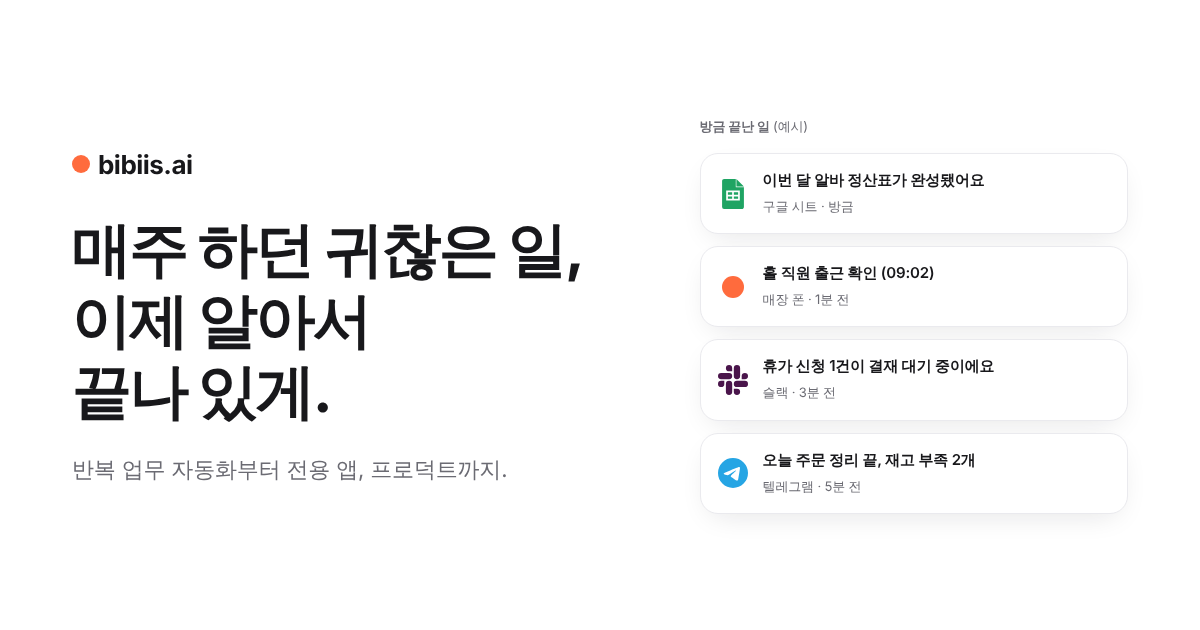
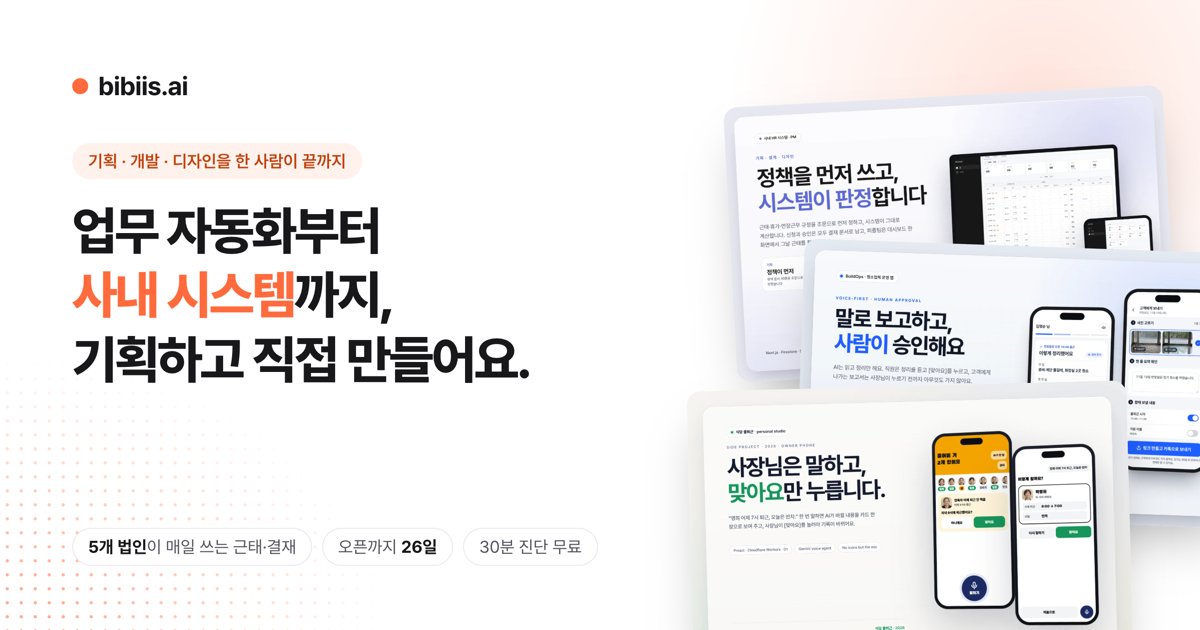
공유 이미지(og.png)와 공유 제목·설명을 새 방향으로 (#21)

diff --git a/design/og.html b/design/og.html
@@ -2,60 +2,38 @@
 <html lang="ko"><head><meta charset="utf-8">
 <link rel="stylesheet" href="https://cdn.jsdelivr.net/gh/orioncactus/pretendard@v1.3.9/dist/web/variable/pretendardvariable-dynamic-subset.css">
 <style>
-@font-face { font-family: "Mono"; font-weight: 700; src: url("https://cdn.jsdelivr.net/npm/@fontsource/jetbrains-mono@5.1.1/files/jetbrains-mono-latin-700-normal.woff2") format("woff2"); }
-@font-face { font-family: "Mono"; font-weight: 500; src: url("https://cdn.jsdelivr.net/npm/@fontsource/jetbrains-mono@5.1.1/files/jetbrains-mono-latin-500-normal.woff2") format("woff2"); }
-* { box-sizing: border-box; margin: 0; }
-html, body { width: 1200px; height: 630px; overflow: hidden; }
-body { position: relative; background: #191A21; color: #F8F8F2; font-family: "Pretendard Variable", Pretendard, sans-serif; letter-spacing: -0.02em; }
-.grid { position: absolute; inset: 0; background-image: linear-gradient(rgba(154,165,214,.09) 1px, transparent 1px), linear-gradient(90deg, rgba(154,165,214,.09) 1px, transparent 1px); background-size: 48px 48px; -webkit-mask-image: radial-gradient(ellipse 80% 80% at 40% 40%, #000 30%, transparent 80%); }
-.orb { position: absolute; border-radius: 50%; filter: blur(90px); }
-.a { width: 560px; height: 560px; right: -140px; top: -200px; background: #BD93F9; opacity: .45; }
-.b { width: 420px; height: 420px; left: -160px; bottom: -220px; background: #FF79C6; opacity: .3; }
-.copy { position: absolute; left: 72px; top: 64px; width: 640px; display: flex; flex-direction: column; gap: 28px; }
-.logo { font: 700 30px "Mono", monospace; letter-spacing: 0; }
-.logo .p { color: #FF79C6; } .logo .k { color: #BD93F9; } .logo .w { color: #F1FA8C; }
-.logo .c { display: inline-block; width: 3px; height: 30px; background: #FF79C6; vertical-align: -4px; margin-left: 4px; }
-h1 { font-size: 66px; line-height: 1.22; font-weight: 800; letter-spacing: -0.035em; margin-top: 22px; }
-h1 em { font-style: normal; background: linear-gradient(90deg, #BD93F9, #FF79C6); -webkit-background-clip: text; color: transparent; }
-.sub { font-size: 25px; color: #C9CFEA; font-weight: 500; line-height: 1.5; }
-.chips { position: absolute; left: 72px; bottom: 60px; display: flex; gap: 12px; }
-.chip { padding: 12px 20px; border-radius: 999px; background: rgba(68,71,90,.8); font-size: 21px; font-weight: 700; }
-.chip.on { background: #BD93F9; color: #191A21; }
-.browser { position: absolute; right: 56px; top: 120px; width: 400px; border-radius: 18px; overflow: hidden; background: #FFF8F0; box-shadow: 0 40px 80px -30px rgba(0,0,0,.7), 0 0 0 1px rgba(189,147,249,.35); transform: perspective(1400px) rotateY(-10deg) rotateX(4deg); }
-.bar { display: flex; align-items: center; gap: 8px; padding: 12px 14px; background: #44475A; font: 500 13px "Mono", monospace; color: #C9CFEA; letter-spacing: 0; }
-.bar i { width: 10px; height: 10px; border-radius: 50%; } .bar i:nth-child(1) { background: #FF5555; } .bar i:nth-child(2) { background: #F1FA8C; } .bar i:nth-child(3) { background: #50FA7B; }
-.page { padding: 18px 20px 22px; color: #3B2A20; display: flex; flex-direction: column; gap: 10px; }
-.nav { display: flex; justify-content: space-between; align-items: center; font-weight: 800; font-size: 15px; }
-.nav span { padding: 5px 11px; border-radius: 14px; background: #3B2A20; color: #FFF8F0; font-size: 12px; }
-.badge { align-self: flex-start; padding: 4px 10px; border-radius: 999px; background: #FDE7D3; color: #EA6A0C; font-size: 12px; font-weight: 700; margin-top: 8px; }
-.t { font-size: 27px; font-weight: 800; line-height: 1.25; letter-spacing: -0.03em; }
-.s { font-size: 13px; color: #7a6a5e; }
-.cta { align-self: flex-start; padding: 10px 16px; border-radius: 22px; background: #EA6A0C; color: #fff; font-size: 13px; font-weight: 800; }
-.rows { display: flex; flex-direction: column; gap: 7px; padding: 12px; border-radius: 22px; background: linear-gradient(140deg, #FCE1C8, #FDE9DA); margin-top: 6px; }
-.row { display: flex; align-items: center; gap: 9px; padding: 8px 10px; border-radius: 16px; background: #fff; font-size: 12.5px; font-weight: 700; }
-.row i { width: 22px; height: 22px; border-radius: 50%; background: linear-gradient(135deg, #EA6A0C, #FDBA74); }
-.row em { margin-left: auto; font-style: normal; color: #EA6A0C; font-size: 11px; }
-.typed { position: absolute; right: 70px; top: 76px; padding: 10px 16px; border-radius: 12px; border: 2px solid #BD93F9; background: #282A36; font-size: 17px; font-weight: 600; box-shadow: 0 20px 40px -20px #BD93F9; }
-.typed b { display: inline-block; width: 2px; height: 18px; background: #FF79C6; vertical-align: -3px; margin-left: 3px; }
+/* og.png 원본 (1200×630). 렌더: 이 파일을 1200×630으로 캡처 */
+*{box-sizing:border-box;margin:0}
+html,body{width:1200px;height:630px;overflow:hidden}
+body{position:relative;background:#FFFFFF;color:#18181B;font-family:"Pretendard Variable",Pretendard,sans-serif;-webkit-font-smoothing:antialiased}
+.glow{position:absolute;width:720px;height:720px;border-radius:50%;background:radial-gradient(circle,rgba(255,107,61,.18),transparent 62%);right:-200px;top:-260px}
+.dots{position:absolute;left:0;bottom:0;width:420px;height:300px;background-image:radial-gradient(#FF6B3D 1.6px,transparent 1.8px);background-size:14px 14px;-webkit-mask-image:radial-gradient(ellipse at 0% 100%,#000 10%,transparent 65%);opacity:.55}
+.copy{position:absolute;left:72px;top:70px;width:600px}
+.logo{display:flex;align-items:center;gap:10px;font-size:26px;font-weight:700;letter-spacing:-.02em}
+.logo i{width:16px;height:16px;border-radius:50%;background:#FF6B3D}
+.badge{display:inline-block;margin-top:42px;font-size:17px;font-weight:600;color:#C2410C;background:#FFF1EC;padding:8px 16px;border-radius:999px}
+h1{margin-top:20px;font-size:52px;line-height:1.24;letter-spacing:-.045em;font-weight:800;word-break:keep-all}
+h1 em{font-style:normal;color:#FF6B3D}
+.proof{position:absolute;left:72px;bottom:64px;display:flex;flex-wrap:wrap;gap:10px;width:600px}
+.proof span{font-size:17px;color:#52525B;background:#fff;border:1px solid #EAEAEE;border-radius:999px;padding:8px 15px}
+.proof b{color:#18181B}
+.shots{position:absolute;right:-40px;top:96px;width:520px;height:460px}
+.shots img{position:absolute;width:440px;border-radius:14px;box-shadow:0 24px 50px -18px rgba(24,24,27,.35)}
+.shots .a{right:70px;top:0;transform:rotate(-3deg)}
+.shots .b{right:0;top:150px;transform:rotate(2deg)}
+.shots .c{right:110px;top:290px;transform:rotate(-1.5deg)}
 </style></head>
 <body>
-<div class="grid"></div><i class="orb a"></i><i class="orb b"></i>
+<i class="glow"></i><i class="dots"></i>
 <div class="copy">
-  <div class="logo">bibi<span class="p">.</span><span class="k">is</span>(<span class="w">building</span>)<span class="c"></span></div>
-  <h1>말로 하면 “그게 뭔데?”<br>보여주면, <em>끄덕.</em></h1>
-  <p class="sub">투자자·심사위원·첫 고객을 설득하는<br>랜딩페이지를 5일 만에.</p>
+  <div class="logo"><i></i>bibiis.ai</div>
+  <span class="badge">기획 · 개발 · 디자인을 한 사람이 끝까지</span>
+  <h1>업무 자동화부터<br><em>사내 시스템</em>까지,<br>기획하고 직접 만들어요.</h1>
 </div>
-<div class="chips"><span class="chip on">설득용 랜딩 50만 원</span><span class="chip">48시간 무료 시안</span><span class="chip">bibiis.ai</span></div>
-<div class="browser">
-  <div class="bar"><i></i><i></i><i></i><span style="margin-left:6px">포포산책.com</span></div>
-  <div class="page">
-    <div class="nav">● 포포산책 <span>시작하기</span></div>
-    <span class="badge">오픈 준비 중</span>
-    <div class="t">우리 아이 산책,<br>믿고 맡기는 이웃.</div>
-    <div class="s">신원 확인을 마친 이웃만 연결합니다.</div>
-    <span class="cta">첫 산책 무료로 신청</span>
-    <div class="rows"><div class="row"><i></i>초코 · 3살<em>산책 중</em></div><div class="row"><i></i>보리 · 5살<em>매칭 완료</em></div></div>
-  </div>
+<div class="proof"><span><b>5개 법인</b>이 매일 쓰는 근태·결재</span><span>오픈까지 <b>26일</b></span><span>30분 진단 무료</span></div>
+<div class="shots">
+  <img class="a" src="../assets/work/attendance/sc-01.webp" alt="">
+  <img class="b" src="../assets/work/buildops/sc-02.webp" alt="">
+  <img class="c" src="../assets/work/restaurant/sc-01.webp" alt="">
 </div>
-<div class="typed">반려견 산책 매칭<b></b></div>
 </body></html>

diff --git a/work/index.html b/work/index.html
@@ -5,14 +5,14 @@
   <meta name="viewport" content="width=device-width, initial-scale=1, viewport-fit=cover">
   <title>만든 것 | bibiis.ai</title>
   <meta name="description" content="5개 법인이 매일 쓰는 근태·결재 플랫폼부터 가게 앱, AI 도구까지. 기획·개발·디자인을 직접 한 작업들.">
-  <meta property="og:title" content="만든 것">
-  <meta property="og:description" content="직접 기획하고 만들어 실제로 쓰이는 작업들. 무엇을 묻고 무엇을 덜어냈는지 함께 적었어요.">
+  <meta property="og:title" content="만든 것: 5개 법인 근태·결재부터 AI 도구까지">
+  <meta property="og:description" content="5개 법인이 매일 쓰는 근태·결재 플랫폼부터 가게 앱, AI 도구까지. 기획·개발·디자인을 직접 한 작업들.">
   <meta property="og:url" content="https://bibiis.ai/work/">
   <link rel="canonical" href="https://bibiis.ai/work/">
   <meta property="og:type" content="website">
   <meta property="og:site_name" content="bibiis.ai">
   <meta property="og:locale" content="ko_KR">
-  <meta property="og:image" content="https://bibiis.ai/og.png?v=2">
+  <meta property="og:image" content="https://bibiis.ai/og.png?v=3">
   <meta name="twitter:card" content="summary_large_image">
   <meta name="theme-color" content="#FFFFFF">
   <link rel="icon" href="/favicon.svg?v=2" type="image/svg+xml">

diff --git a/index.html b/index.html
@@ -5,13 +5,13 @@
   <meta name="viewport" content="width=device-width, initial-scale=1, viewport-fit=cover">
   <title>업무 자동화부터 사내 시스템까지 | bibiis.ai</title>
   <meta name="description" content="업무 자동화부터 전용 앱, 사내 시스템까지 기획하고 직접 만듭니다. 작은 가게의 정산부터 여러 법인이 쓰는 근태·결재까지. 30분 진단은 무료.">
-  <meta property="og:title" content="매주 하던 귀찮은 일, 이제 알아서 끝나 있게.">
+  <meta property="og:title" content="업무 자동화부터 사내 시스템까지, 기획하고 직접 만들어요.">
   <meta property="og:description" content="업무 자동화부터 사내 시스템까지, 기획하고 직접 만듭니다. 30분 진단은 무료.">
   <meta property="og:url" content="https://bibiis.ai/">
   <meta property="og:type" content="website">
   <meta property="og:site_name" content="bibiis.ai">
   <meta property="og:locale" content="ko_KR">
-  <meta property="og:image" content="https://bibiis.ai/og.png?v=2">
+  <meta property="og:image" content="https://bibiis.ai/og.png?v=3">
   <meta property="og:image:width" content="1200">
   <meta property="og:image:height" content="630">
   <meta property="og:image:alt" content="말로 하면 “그게 뭔데?” 보여주면, 끄덕. 창업팀 PoC·MVP 제작, 48시간 무료 시안">

diff --git a/listening/index.html b/listening/index.html
@@ -5,14 +5,14 @@
   <meta name="viewport" content="width=device-width, initial-scale=1, viewport-fit=cover">
   <title>문의서 | bibiis.ai</title>
   <meta name="description" content="매주 반복되는 일을 한 줄로 알려 주세요. 3분이면 쓰고, 48시간 안에 답장드려요.">
-  <meta property="og:title" content="매주 반복되는 일, 하나만 알려 주세요">
-  <meta property="og:description" content="3분 문의서. 48시간 안에 줄일 수 있는 부분과 첫 시안 방향을 보내드려요.">
+  <meta property="og:title" content="만들고 싶은 것, 한 줄이면 충분해요">
+  <meta property="og:description" content="1분 문의서. 48시간 안에 답장드려요. 30분 진단은 무료.">
   <meta property="og:url" content="https://bibiis.ai/listening/">
   <link rel="canonical" href="https://bibiis.ai/listening/">
   <meta property="og:type" content="website">
   <meta property="og:site_name" content="bibiis.ai">
   <meta property="og:locale" content="ko_KR">
-  <meta property="og:image" content="https://bibiis.ai/og.png?v=2">
+  <meta property="og:image" content="https://bibiis.ai/og.png?v=3">
   <meta name="twitter:card" content="summary_large_image">
   <meta name="theme-color" content="#FFFFFF">
   <link rel="icon" href="/favicon.svg?v=2" type="image/svg+xml">

diff --git a/404.html b/404.html
@@ -10,7 +10,7 @@
   <meta property="og:type" content="website">
   <meta property="og:site_name" content="bibiis.ai">
   <meta property="og:locale" content="ko_KR">
-  <meta property="og:image" content="https://bibiis.ai/og.png?v=2">
+  <meta property="og:image" content="https://bibiis.ai/og.png?v=3">
   <meta name="twitter:card" content="summary_large_image">
   <meta name="theme-color" content="#FFFFFF">
   <link rel="icon" href="/favicon.svg?v=2" type="image/svg+xml">

diff --git a/privacy/index.html b/privacy/index.html
@@ -12,7 +12,7 @@
   <meta property="og:type" content="website">
   <meta property="og:site_name" content="bibiis.ai">
   <meta property="og:locale" content="ko_KR">
-  <meta property="og:image" content="https://bibiis.ai/og.png?v=2">
+  <meta property="og:image" content="https://bibiis.ai/og.png?v=3">
   <meta name="twitter:card" content="summary_large_image">
   <meta name="theme-color" content="#FFFFFF">
   <link rel="icon" href="/favicon.svg?v=2" type="image/svg+xml">
